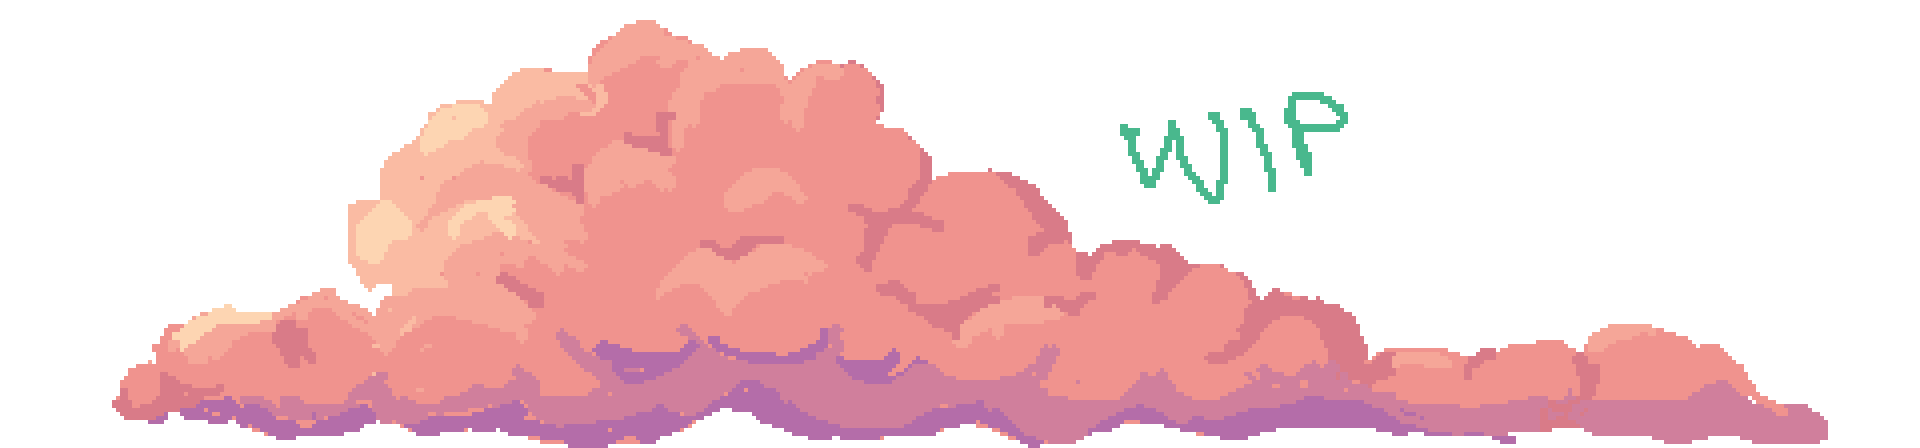
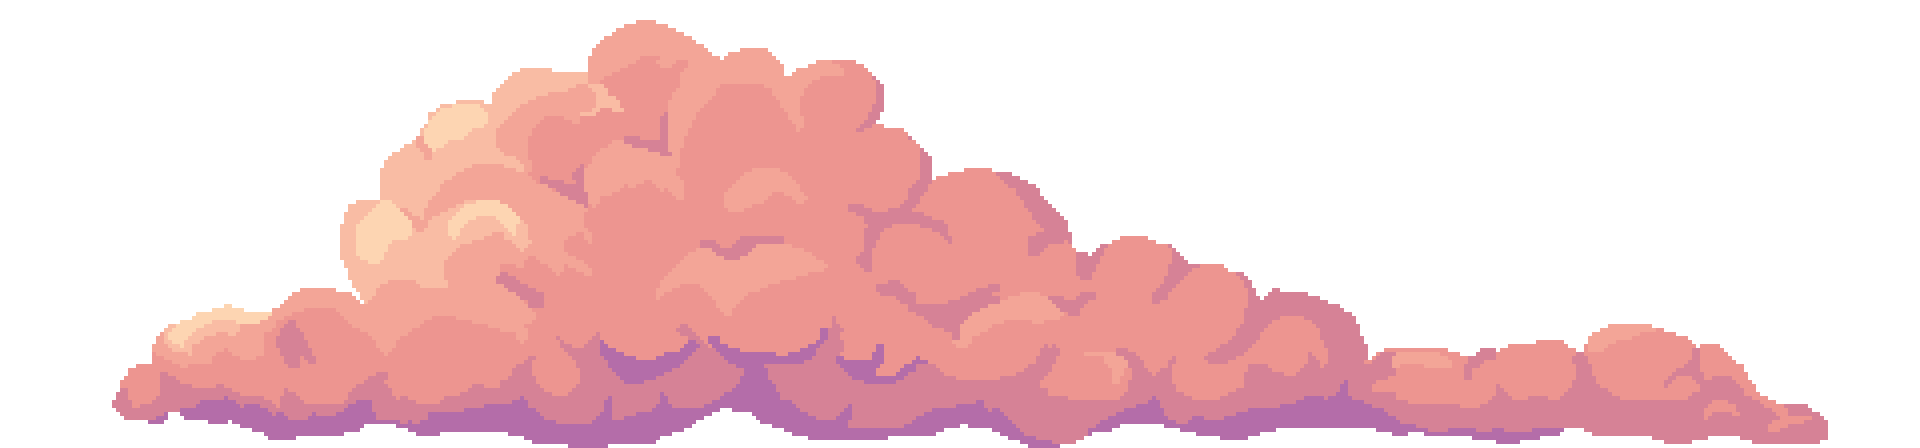
"finishing"
"very finished"

diff --git a/index.html b/index.html
@@ -18,10 +18,10 @@
 
 <body>
     <!-- Navigation -->
-    <nav id="navbar" class="navbar navbar-expand-lg sticky-top" data-bs-theme="dark">
+    <nav id="navbar" class="navbar navbar-expand-lg" data-bs-theme="dark">
         <div class="container">
             <a class="navbar-brand" href="index.html">
-                <img src="..." alt="..." class="logo">
+                <img src="assets/images/favicon32.png" alt="Brain with a heart" class="logo">
             </a>
             <button class="navbar-toggler" type="button" data-bs-toggle="collapse" data-bs-target="#navbarNav"
                 aria-controls="navbarNav" aria-expanded="false" aria-label="Toggle navigation">
@@ -55,9 +55,8 @@
         <!-- Cards for mental health advice -->
         <section id="information" class="container">
             <div class="row mt-3">
-                <div class="col-12 col-md-6 col-xl-3">
+                <div class="col-12 col-md-6 col-xl-3 mb-3">
                     <div class="card">
-                        <img src="..." class="card-img-top" alt="..." >
                         <div class="card-body">
                             <h3 class="card-title sub-heading-color">Feeling anxious?</h3>
                             <p class="card-text">
@@ -78,9 +77,8 @@
                         </div>
                     </div>
                 </div>
-                <div class="col-12 col-md-6 col-xl-3">
+                <div class="col-12 col-md-6 col-xl-3 mb-3">
                     <div class="card">
-                    <img src="..." class="card-img-top" alt="..." >
                         <div class="card-body">
                             <h3 class="card-title sub-heading-color">Feeling down?</h3>
                             <p class="card-text">
@@ -101,9 +99,8 @@
                         </div>
                     </div>
                 </div>
-                <div class="col-12 col-md-6 col-xl-3">
+                <div class="col-12 col-md-6 col-xl-3 mb-3">
                     <div class="card">
-                    <img src="..." class="card-img-top" alt="..." >
                         <div class="card-body">
                             <h3 class="card-title sub-heading-color">Bad thing?</h3>
                             <p class="card-text">
@@ -124,9 +121,8 @@
                         </div>
                     </div>
                 </div>
-                <div class="col-12 col-md-6 col-xl-3">
+                <div class="col-12 col-md-6 col-xl-3 mb-3">
                     <div class="card">
-                    <img src="..." class="card-img-top" alt="..." >
                         <div class="card-body">
                             <h3 class="card-title sub-heading-color">Bad thing?</h3>
                             <p class="card-text">
@@ -153,18 +149,18 @@
         <section id="affirmations" class="container">
             <div class="container text-center">
                 <div class="row">
-                    <div class="col-md-2 affirmation">
-                        it's not so bad
+                    <div class="col-md-4 affirmation">
+                        <p>Be kind to yourself and give yourself a break</p>
                     </div>
                 </div>
                 <div class="row justify-content-end">
-                    <div class="col-md-2 affirmation">
-                        Maybe try not to be sad
+                    <div class="col-md-4 affirmation">
+                        <p>Reach out to friends and family, you aren't a burden</p>
                     </div>
                 </div>
                 <div class="row justify-content-center">
-                    <div class="col-md-2 affirmation">
-                        Go for a walk
+                    <div class="col-md-4 affirmation">
+                        <p>Get out in nature and reset your mind</p>
                     </div>
                 </div>
             </div>

diff --git a/assets/css/style.css b/assets/css/style.css
@@ -1,12 +1,11 @@
 /* CSS Variables */
 :root {
 	--cloud1: #fdd5b2; /* light orange */
-	--cloud2: #fabba3;
-	--cloud3: #f5a698;
-	--cloud4: #f0938e;
-	--cloud5: #d97b88;
-	--cloud6: #d07f9c;
-	--cloud7: #b46da9; /* dusky purple */
+	--cloud2: #f9bca4;
+	--cloud3: #f3a597;
+	--cloud4: #ed9590;
+	--cloud5: #d68296;
+	--cloud6: #b46da9; /* dusky purple */
 	--dark1: #3d409c; 
 	--dark2: #7157c9; /* dark purple */
 	--sky1: #7d6aeb; /* light purple */
@@ -45,22 +44,35 @@ body {
 	text-shadow: 1px 1px white;
 }
 
-#information .accordion-button, .accordion-collapse {
+#information .accordion-button{
 	color: white;
 	background-color: var(--cloud3);
 }
 
+#information .accordion-collapse {
+	color: white;
+	background-color: var(--cloud5);
+}
+
 #affirmations {
-	padding: 10px 230px;
+	padding: 5px 20px;
 }
 
 .affirmation {	
-	padding: 20px;
-	margin: 10px;
+	padding: 70px 110px;
+/*	margin: 10px;*/
 /*	background-color: var(--cloud4);*/
 	background-image: url("../images/cloudSmall.png");
 	background-repeat: no-repeat;
 	background-position-x: center;
+/*	border: 2px solid black;*/
+}
+
+.affirmation p {
+	margin-top: 15px;
+	margin-bottom: 0px;
+	color: white;
+	background-color: #7157c980;
 }
 
 #resources .col {
@@ -73,7 +85,7 @@ body {
 
 #resources .btn {
 	color: white;
-	background-color: var(--cloud7);
+	background-color: var(--cloud6);
 }
 
 footer {
